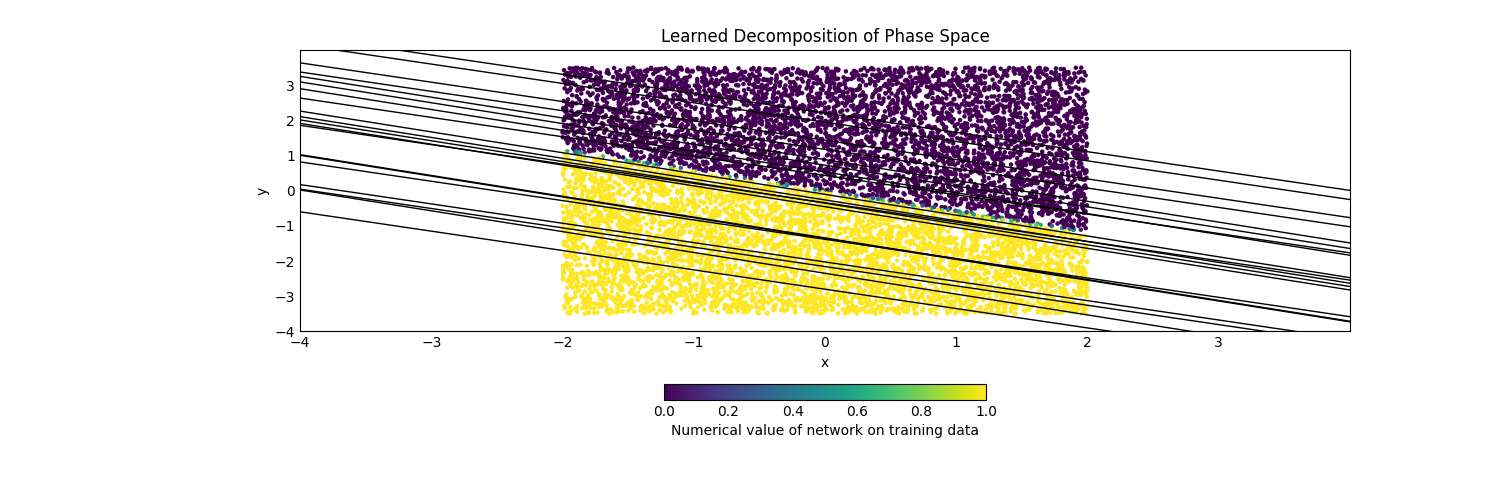
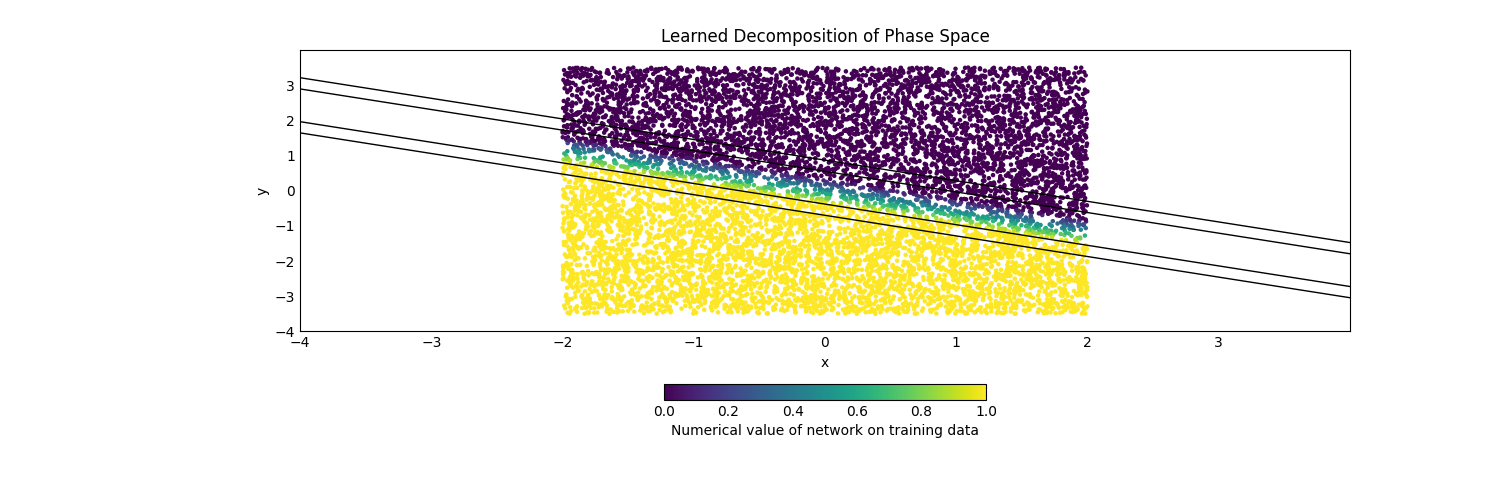
tested compute_example and fixed bug in get_cube_label

Changed region(s): [[0.184, 0.09, 0.92, 0.66]]

diff --git a/utils/decomposition_utils.py b/utils/decomposition_utils.py
@@ -24,9 +24,11 @@ def generate_domain_bounding_hyperplanes(config):
 
 ''' Function that returns output of regression network for a given input after applying thresholding '''
 def evaluate_regression_network(config, x, model):
-    d = config.dimension
-    num_labels = config.num_labels
-    return torch.clamp(model(x.clone().detach().view(1, d)), min = 0.0, max = float(num_labels) - 1)
+    with torch.no_grad():
+        d = config.dimension
+        num_labels = config.num_labels
+        result = torch.clamp(model(x.clone().detach().view(1, d)), min = 0.0, max = float(num_labels) - 1)
+    return float(result)
 
 ''' Compute the intersection of d hyperplanes in general arrangement in dimension d '''
 def hyperplane_intersection(hyperplane_list, d):
@@ -426,20 +428,33 @@ def get_cube_vertices_for_labeling(config, cube_as_polytope):
 def get_cube_label(config, vertex_list, model, labeling_threshold):
     label_list = []
 
+    print('len(vertex_list)', len(vertex_list))
     for vertex in vertex_list:
         # Check if vertex is already a tensor
         if not isinstance(vertex, torch.Tensor):
             # Convert vertex to a tensor
             vertex = torch.tensor(vertex)
         network_value_at_vertex = evaluate_regression_network(config, vertex, model)
+        print('network value: ', network_value_at_vertex)
+        print('range: ', config.num_labels)
+
+        has_label = False
         for label in range(config.num_labels):
+            print('x: ', label - labeling_threshold <= network_value_at_vertex <= label + labeling_threshold)
             if label - labeling_threshold <= network_value_at_vertex <= label + labeling_threshold:
                 label_list.append(label)
+                print('label: ', label)
+                has_label = True
                 break
-            else:
-                label_list.append(config.num_labels)
 
+        if not has_label:
+            label_list.append(config.num_labels)
+            print('label: ', config.num_labels)
+
+    print('label set: ')
     label_set = list(set(label_list))
+    print(label_set)
+    print('-----')
     if len(label_set) > 1:
         return config.num_labels
     elif len(label_set) == 1:
@@ -448,7 +463,10 @@ def get_cube_label(config, vertex_list, model, labeling_threshold):
 def update_label_to_cubes_dict(label_to_cubes_dict, label, cube_id):
     labeled_cube_list = label_to_cubes_dict[label]
     labeled_cube_list.append(cube_id.tolist())
-    label_to_cubes_dict[label] = labeled_cube_list
+    new_dict = dict()
+    new_dict[label] = labeled_cube_list
+    label_to_cubes_dict.update(new_dict)
+    #print('label to cubes dict: ', label_to_cubes_dict)
     return label_to_cubes_dict
 
 def get_num_cubes_labeled(config, label_to_cubes_dict):

diff --git a/compute_example.py b/compute_example.py
@@ -4,8 +4,8 @@ from utils.config_utils import configure
 '''' Global variables set by user '''
 
 system = 1
-N = 10
-labeling_threshold = 0.3
+N = 4
+labeling_threshold = 0.1
 job_index = 0
 
 def main():
